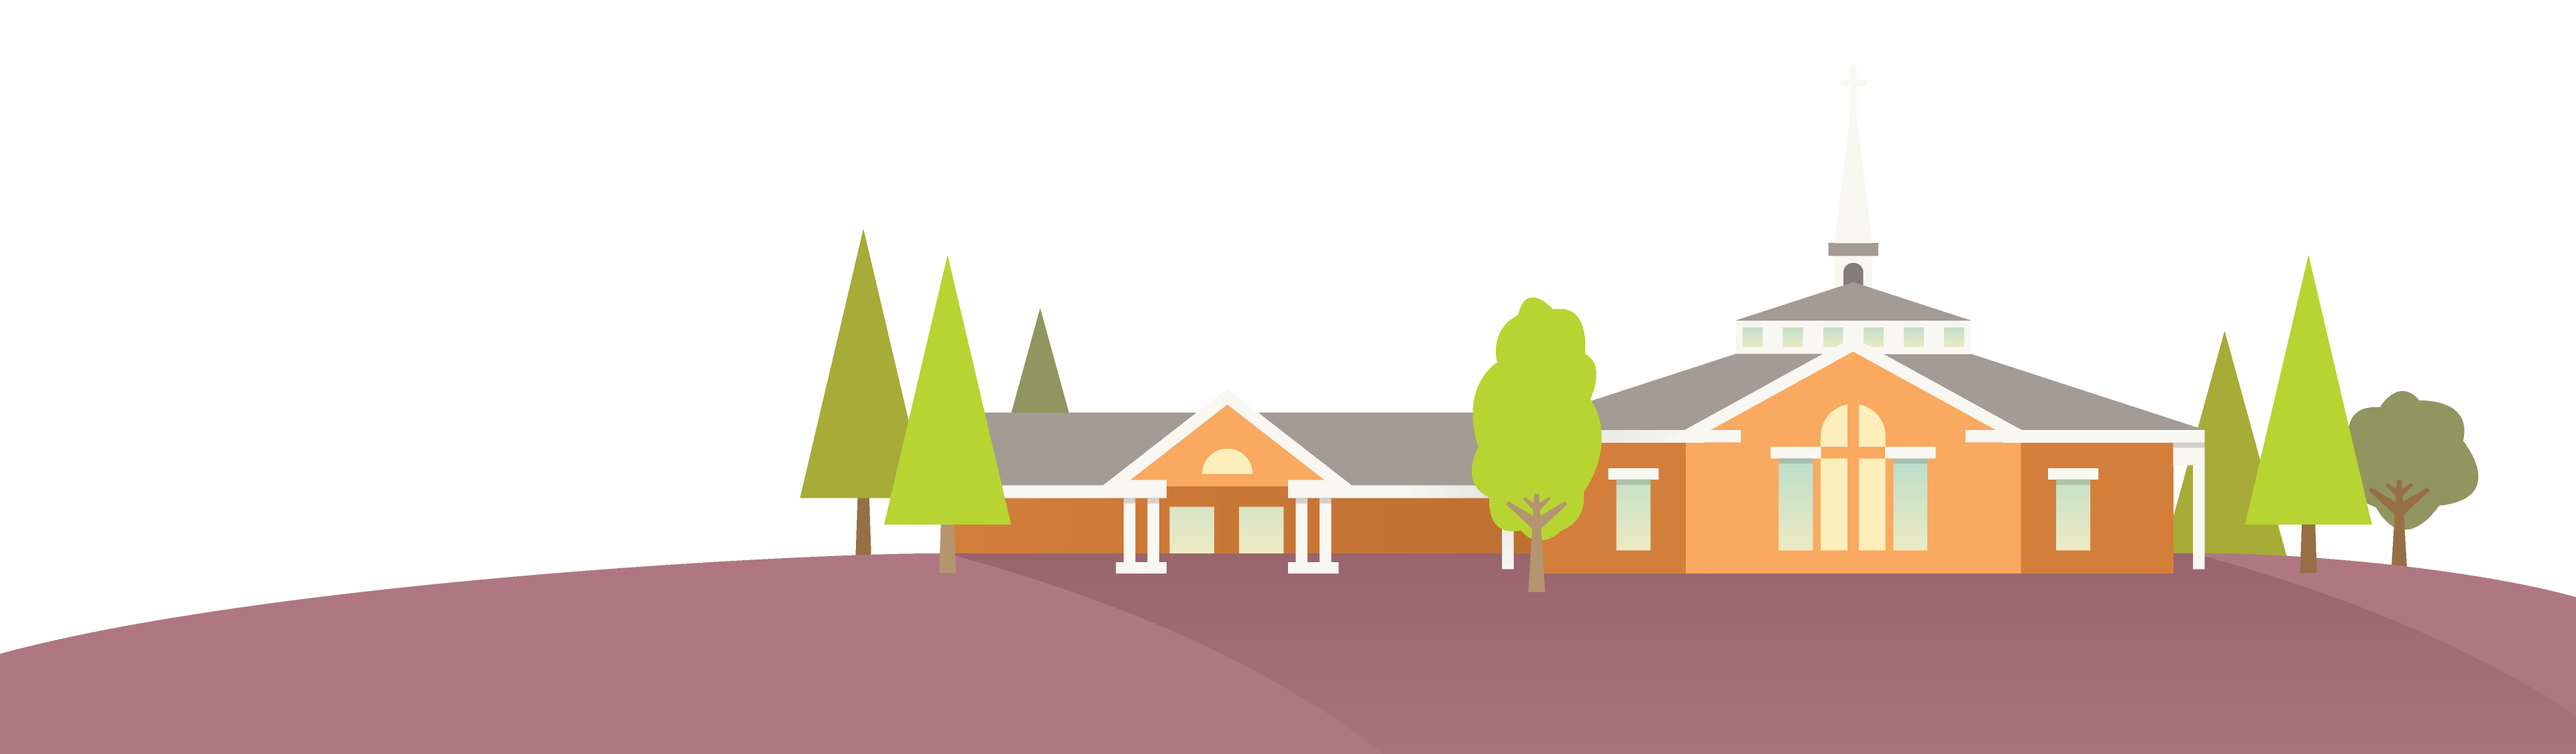
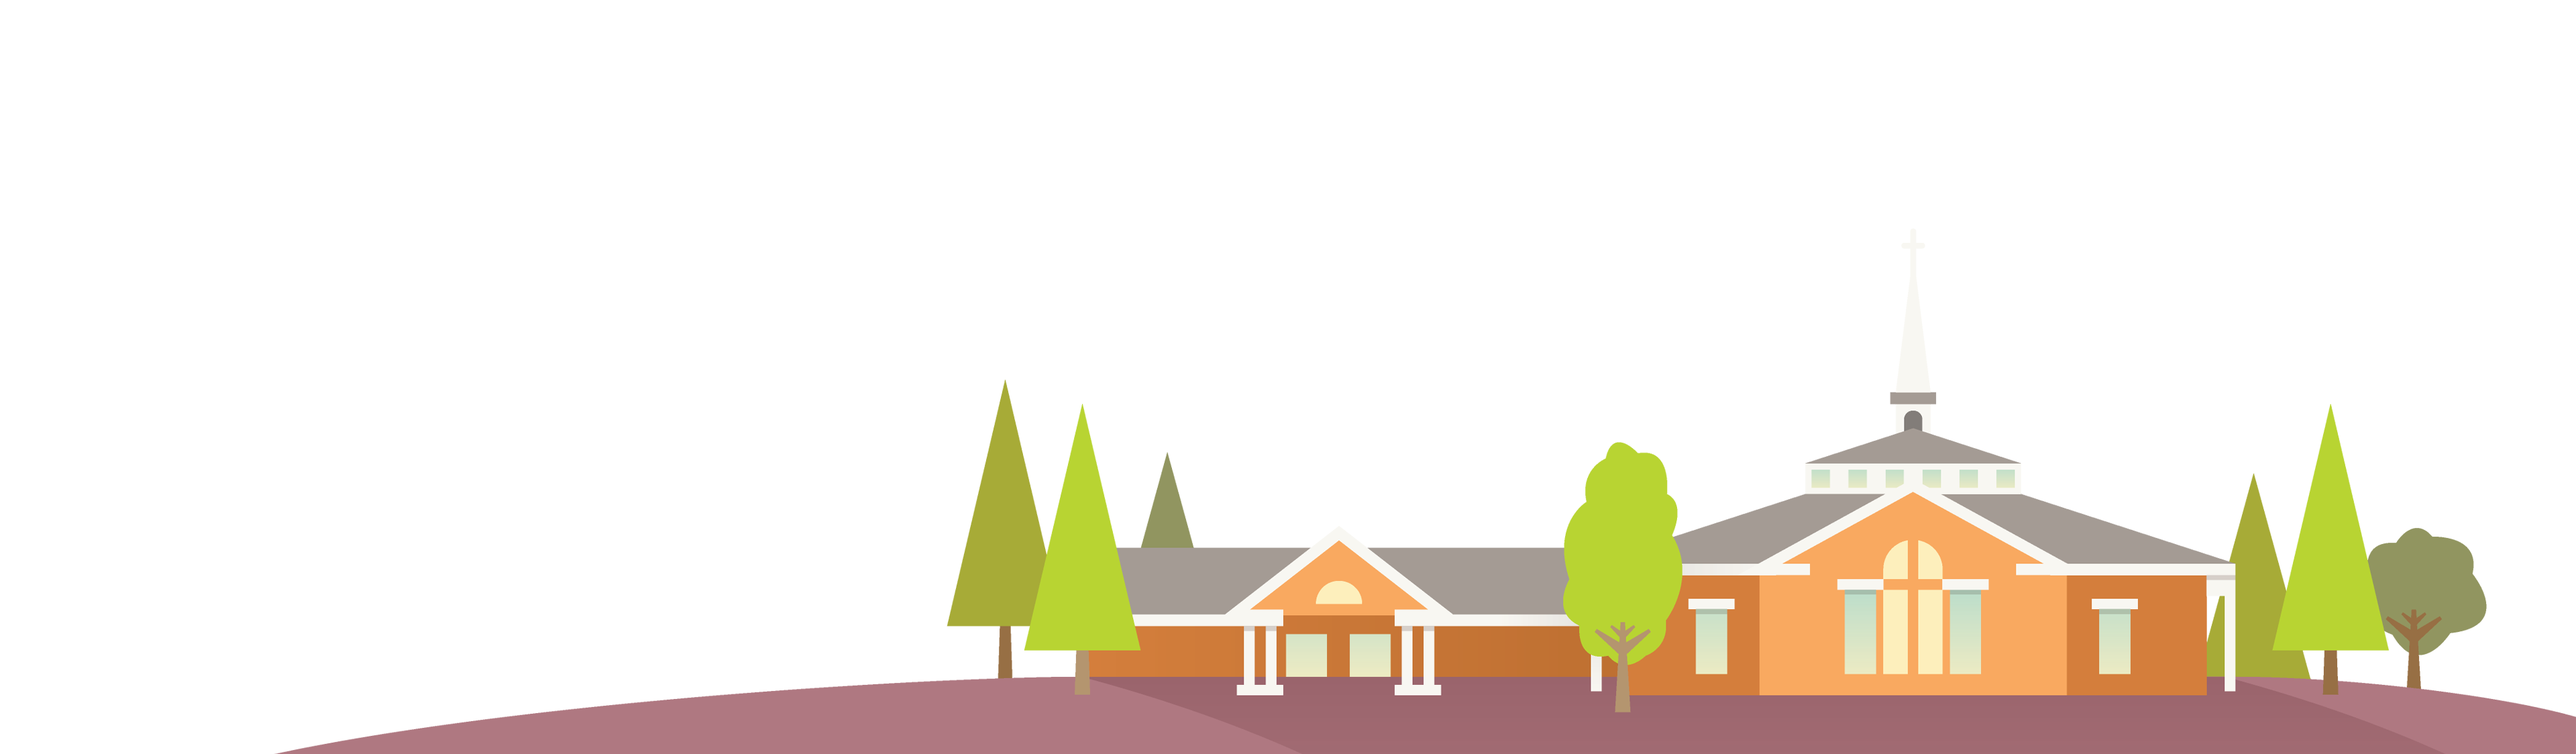
Add parallax image to ImageAlignedText

diff --git a/src/components/ImageAlignedText.js b/src/components/ImageAlignedText.js
@@ -1,16 +1,24 @@
 import React, { Component } from 'react'
-import { Container, Media } from 'reactstrap'
+import { Media } from 'reactstrap'
 import Button from './Button'
 import mergeStyles from '../utils/StyleMerge'
+import { Parallax } from 'react-scroll-parallax'
 
 class ImageAlignedText extends Component {
   render() {
-    const { styles, image, text, button, textAlign } = this.props
+    const { styles, image, text, button, textAlign, parallaxImage } = this.props
     const contentSide = textAlign === 'right' ? 'flex-end' : 'flex-start'
 
+    console.log(styles)
     return (
       <div style={styles.container}>
-        <Media object alt={image.title ? image.title : 'img'} src={image.image} style={styles.image}/>
+        <Media object alt={image.title ? image.title : 'img'} src={image.src} style={styles.image}/>
+        <div style={styles.parallaxContainer}>
+          <Parallax x={parallaxImage.x}>
+            <img alt={parallaxImage.title ? parallaxImage.title : 'img'} src={parallaxImage.src} style={styles.parallaxImage}/>
+          </Parallax>
+        </div>
+        <div style={styles.content}>
         <div style={{
           justifyContent: contentSide,
           ...styles.overlay,
@@ -28,14 +36,13 @@ class ImageAlignedText extends Component {
             </div>
             {button.text.length > 0 &&
               <div style={styles.buttonWrapper}>
-                <Button onClick={button.onClick} styles={{
-                  ...styles.button
-                }}>
+                <Button onClick={button.onClick} styles={styles.button}>
                   {button.text}
                 </Button>
               </div>
             }
           </div>
+        </div>
         </div>
       </div>
     )
@@ -45,37 +52,49 @@ class ImageAlignedText extends Component {
 const defaultStyles = {
   container: {
     position: 'relative',
-    height: 700,
+    height: 675,
+  },
+  content: {
+    marginLeft: 75,
+    marginRight: 75,
+    paddingTop: 125,
   },
   image: {
+    position: 'absolute',
     objectFit: 'cover',
     height: '100%',
     width: '100%',
   },
-  overlay: {
+  parallaxContainer: {
     position: 'absolute',
     bottom: 0,
-    width: '100%',
+    right: 0,
+    width: '90%',
+  },
+  parallaxImage: {
+    position: 'relative',
     height: '100%',
-    display: 'flex',
-    alignItems: 'center',
+    width: '100%'
+  },
+  overlay: {
+    position: 'relative',
+    maxWidth: 1200,
+    margin: 'auto',
   },
   subContainer: {
-    height: '75%',
-    width: '50%',
+    width: '100%',
     display: 'flex',
     flexDirection: 'column',
     justifyContent: 'center',
-    padding: '2%',
   },
   textWrapper: {
+    width: '66%',
     color: 'white',
-    fontSize: 33,
+    fontSize: 52,
     overflow: 'hidden',
   },
   buttonWrapper: {
-    height: '10%',
-    marginTop: '5%',
+    marginTop: 30,
   },
   button: {
     color: 'white',
@@ -90,8 +109,13 @@ const defaultStyles = {
 ImageAlignedText.defaultProps = {
   text: '',
   image: {
-    image: '',
+    src: '',
     title: '',
+  },
+  parallaxImage: {
+    src: '',
+    title: '',
+    x: [-10, 10],
   },
   button: {
     text: '',

diff --git a/src/samples/providence/ProvidenceHomepage.js b/src/samples/providence/ProvidenceHomepage.js
@@ -1,5 +1,6 @@
 import React, { Component } from 'react'
 import ChurchIllustrationSky from './assets/ChurchIllustration_Sky.jpg'
+import ChurchIllustration from './assets/ChurchIllustration.png'
 import {
   FloatingParallax,
   Footer,
@@ -9,10 +10,15 @@ import {
 } from "./components"
 
 const churchIllustrationProps = {
-  text: 'Welcome to our church! Press the button below to sign up for our newsletter.',
+  text: 'One sentence describing worship at Providence and the aim of what we do being to God\'s glory.',
   image: {
-    image: ChurchIllustrationSky,
-    title: 'Picture'
+    src: ChurchIllustrationSky,
+    title: 'Church Illustration Sky'
+  },
+  parallaxImage: {
+    src: ChurchIllustration,
+    title: 'Church Illustration',
+    x: [10, 0],
   },
   button: {
     text: 'Learn More',

diff --git a/src/components/FloatingParallax.js b/src/components/FloatingParallax.js
@@ -2,7 +2,6 @@ import React, { Component } from 'react'
 import mergeStyles from '../utils/StyleMerge'
 import deepmerge from 'deepmerge'
 import { Parallax, withController } from 'react-scroll-parallax'
-import { Parallax as ParallaxImage } from 'react-parallax'
 
 class FloatingParallax extends Component {
   constructor(props) {
@@ -49,11 +48,6 @@ class FloatingParallax extends Component {
     this.setState({
       windowWidth: window.innerWidth,
     })
-    if (window.innerWidth <= this.props.smallMax) {
-      setTimeout(() => {
-        console.log('mount')
-      }, 500)
-    }
   }
 
   getFloatingContainerStyle = () => {

diff --git a/src/components/Button.js b/src/components/Button.js
@@ -12,10 +12,11 @@ class Button extends Component {
     }
   }
 
-  handleHover() {
+  handleHover(e) {
     this.setState({
       hovered: !this.state.hovered,
     })
+    e.preventDefault()
   }
 
   render() {
@@ -33,15 +34,13 @@ class Button extends Component {
 const defaultStyles = {
   borderColor: 'white',
   borderWidth: 2,
-  backgroundColor: 'rgba(0,0,0,0)',
-  height: 40,
+  backgroundColor: 'transparent',
   fontSize: 20,
   hovered: {
     backgroundColor: 'white',
     color: 'tan',
     borderWidth: 2,
     borderColor: 'tan',
-    height: 40,
     fontSize: 20,
   }
 }

diff --git a/src/samples/providence/components/ImageAlignedText.js b/src/samples/providence/components/ImageAlignedText.js
@@ -1,11 +1,11 @@
 import React, { Component } from 'react'
 import { ImageAlignedText as ImageAlignedTextComponent } from '../../../components'
-
+import { styles } from "../styles"
 
 
 class ImageAlignedText extends Component {
   render() {
-    return <ImageAlignedTextComponent {...this.props}/>
+    return <ImageAlignedTextComponent styles={{button: styles.button}} {...this.props}/>
   }
 }
 

diff --git a/src/samples/providence/styles.js b/src/samples/providence/styles.js
@@ -1,0 +1,14 @@
+export const styles = {
+  button: {
+    backgroundColor: 'transparent',
+    color: '#6A5B5D',
+    borderColor: '#6A5B5D',
+    borderRadius: 0,
+    hovered: {
+      backgroundColor: '#6A5B5D',
+      color: 'orange',
+      borderColor: '#6A5B5D',
+      borderRadius: 0,
+    }
+  }
+}
